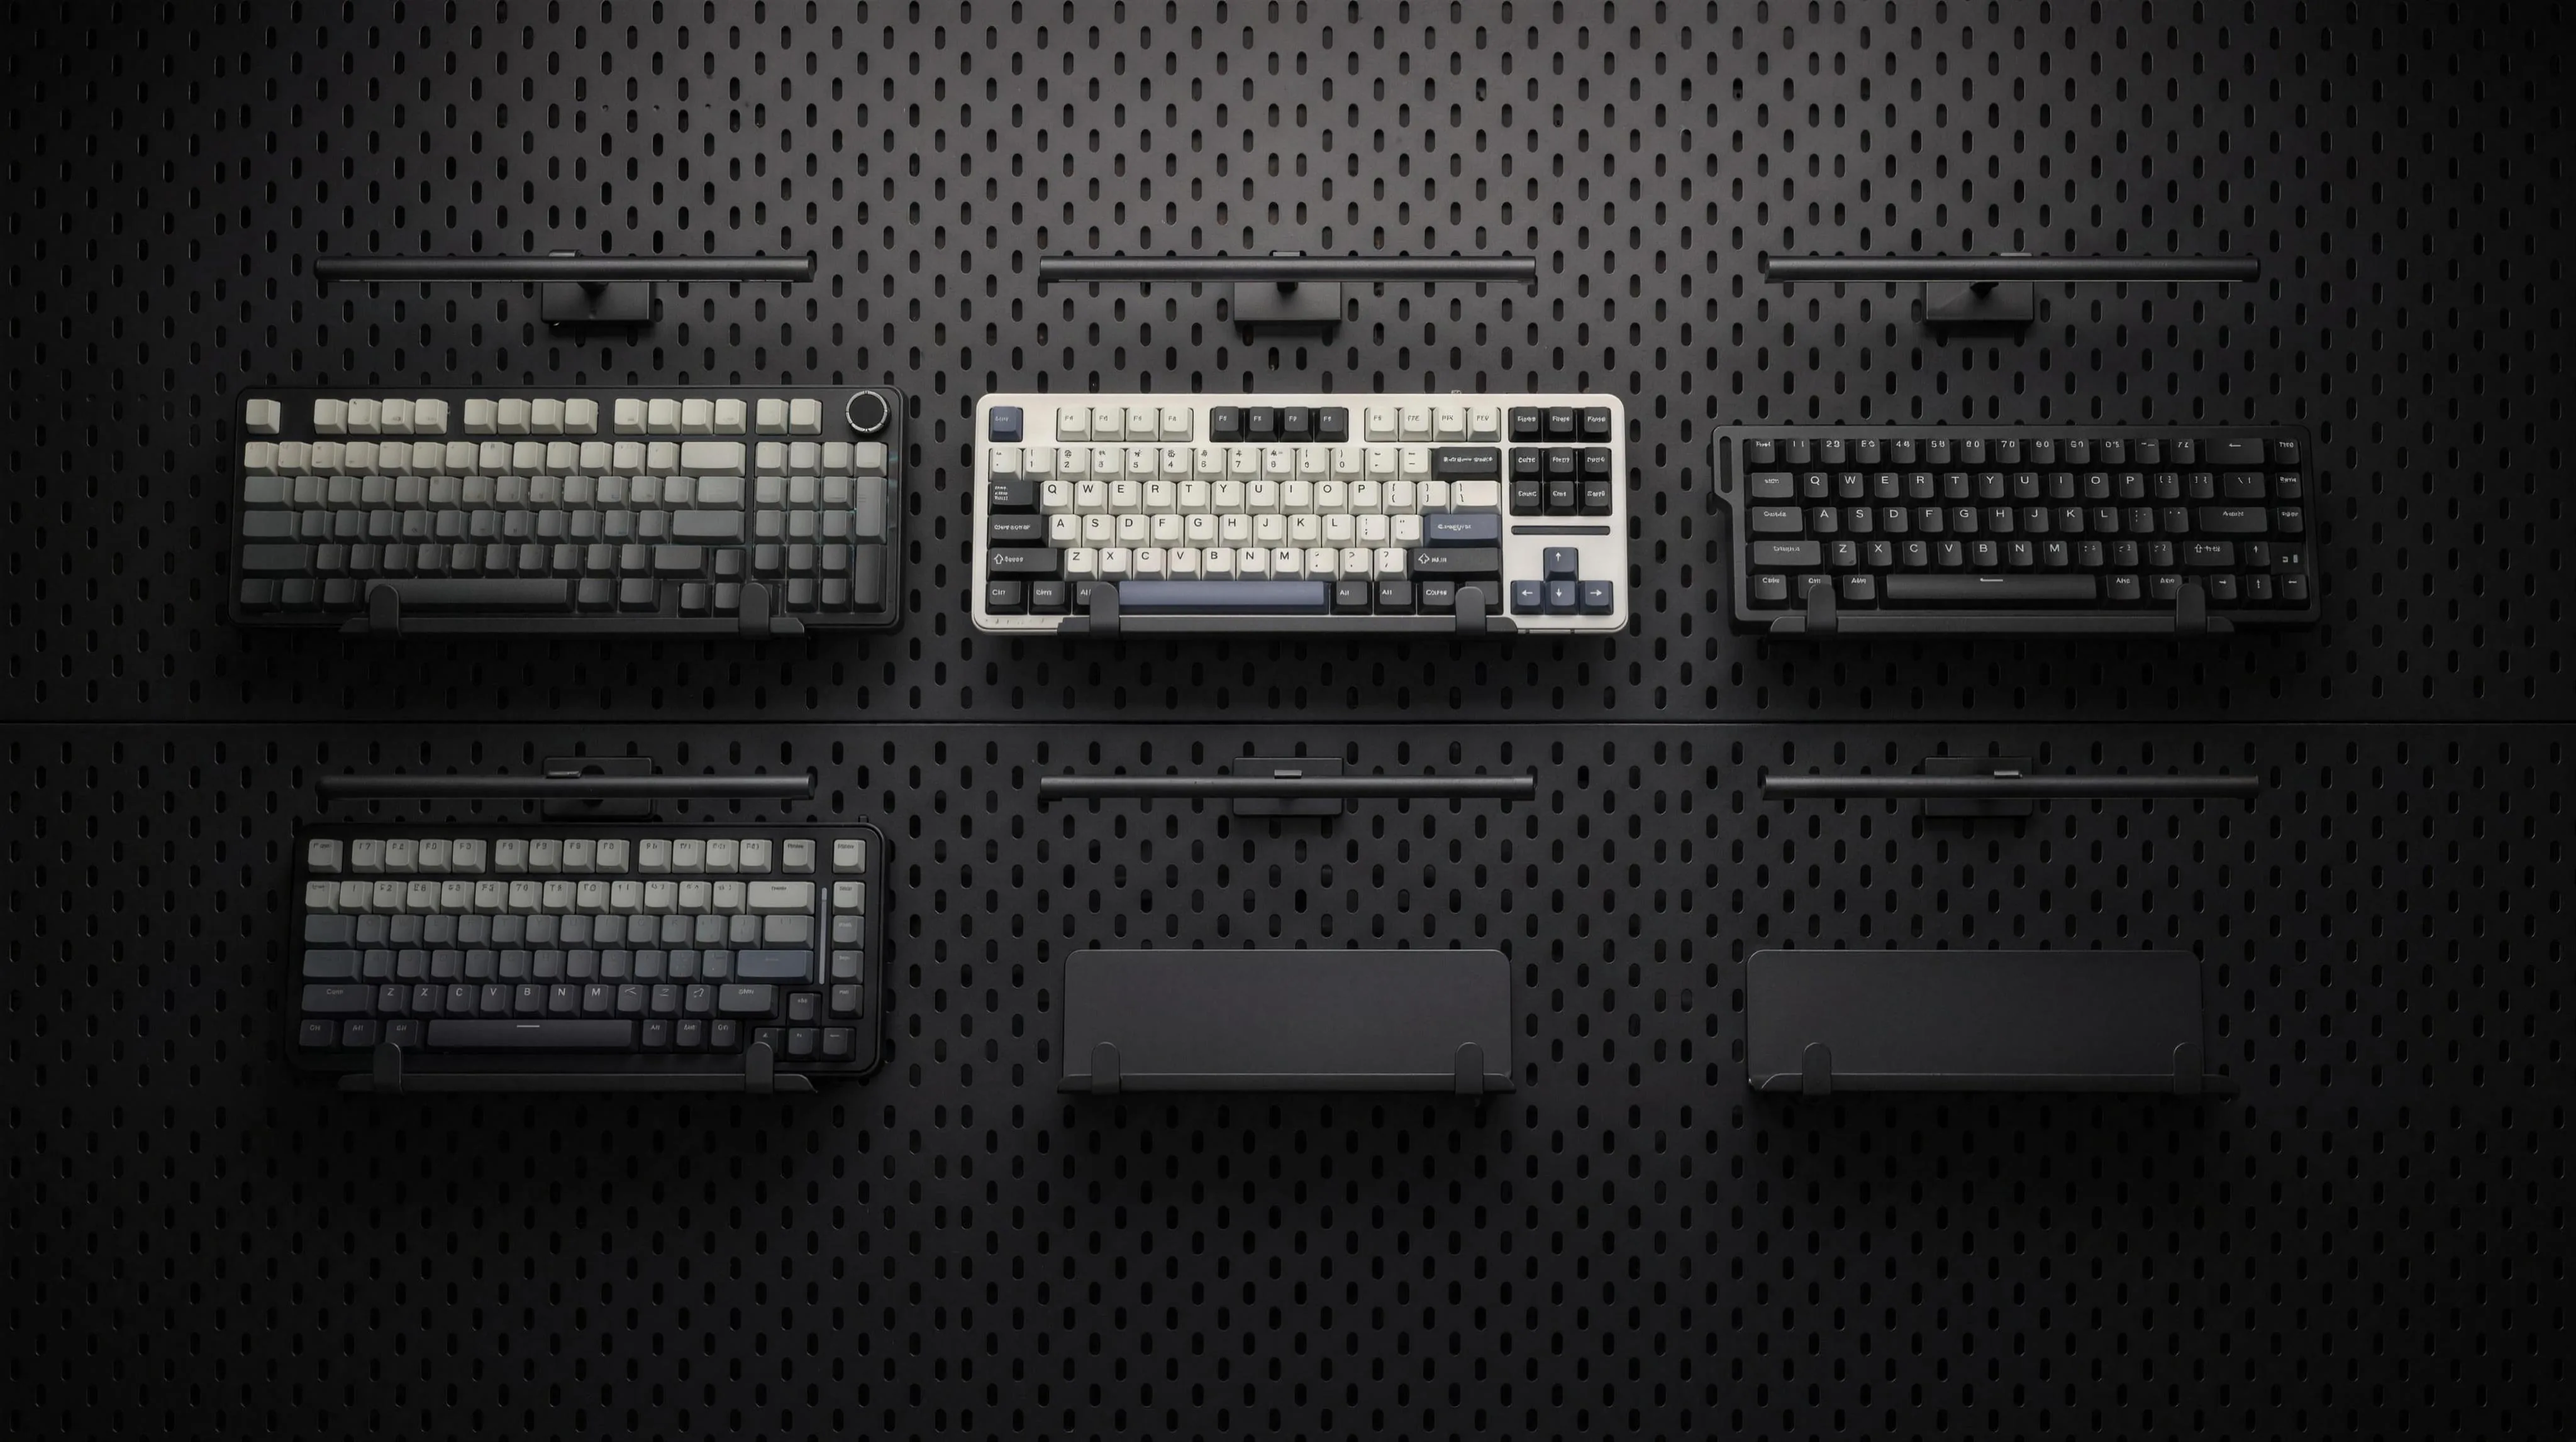
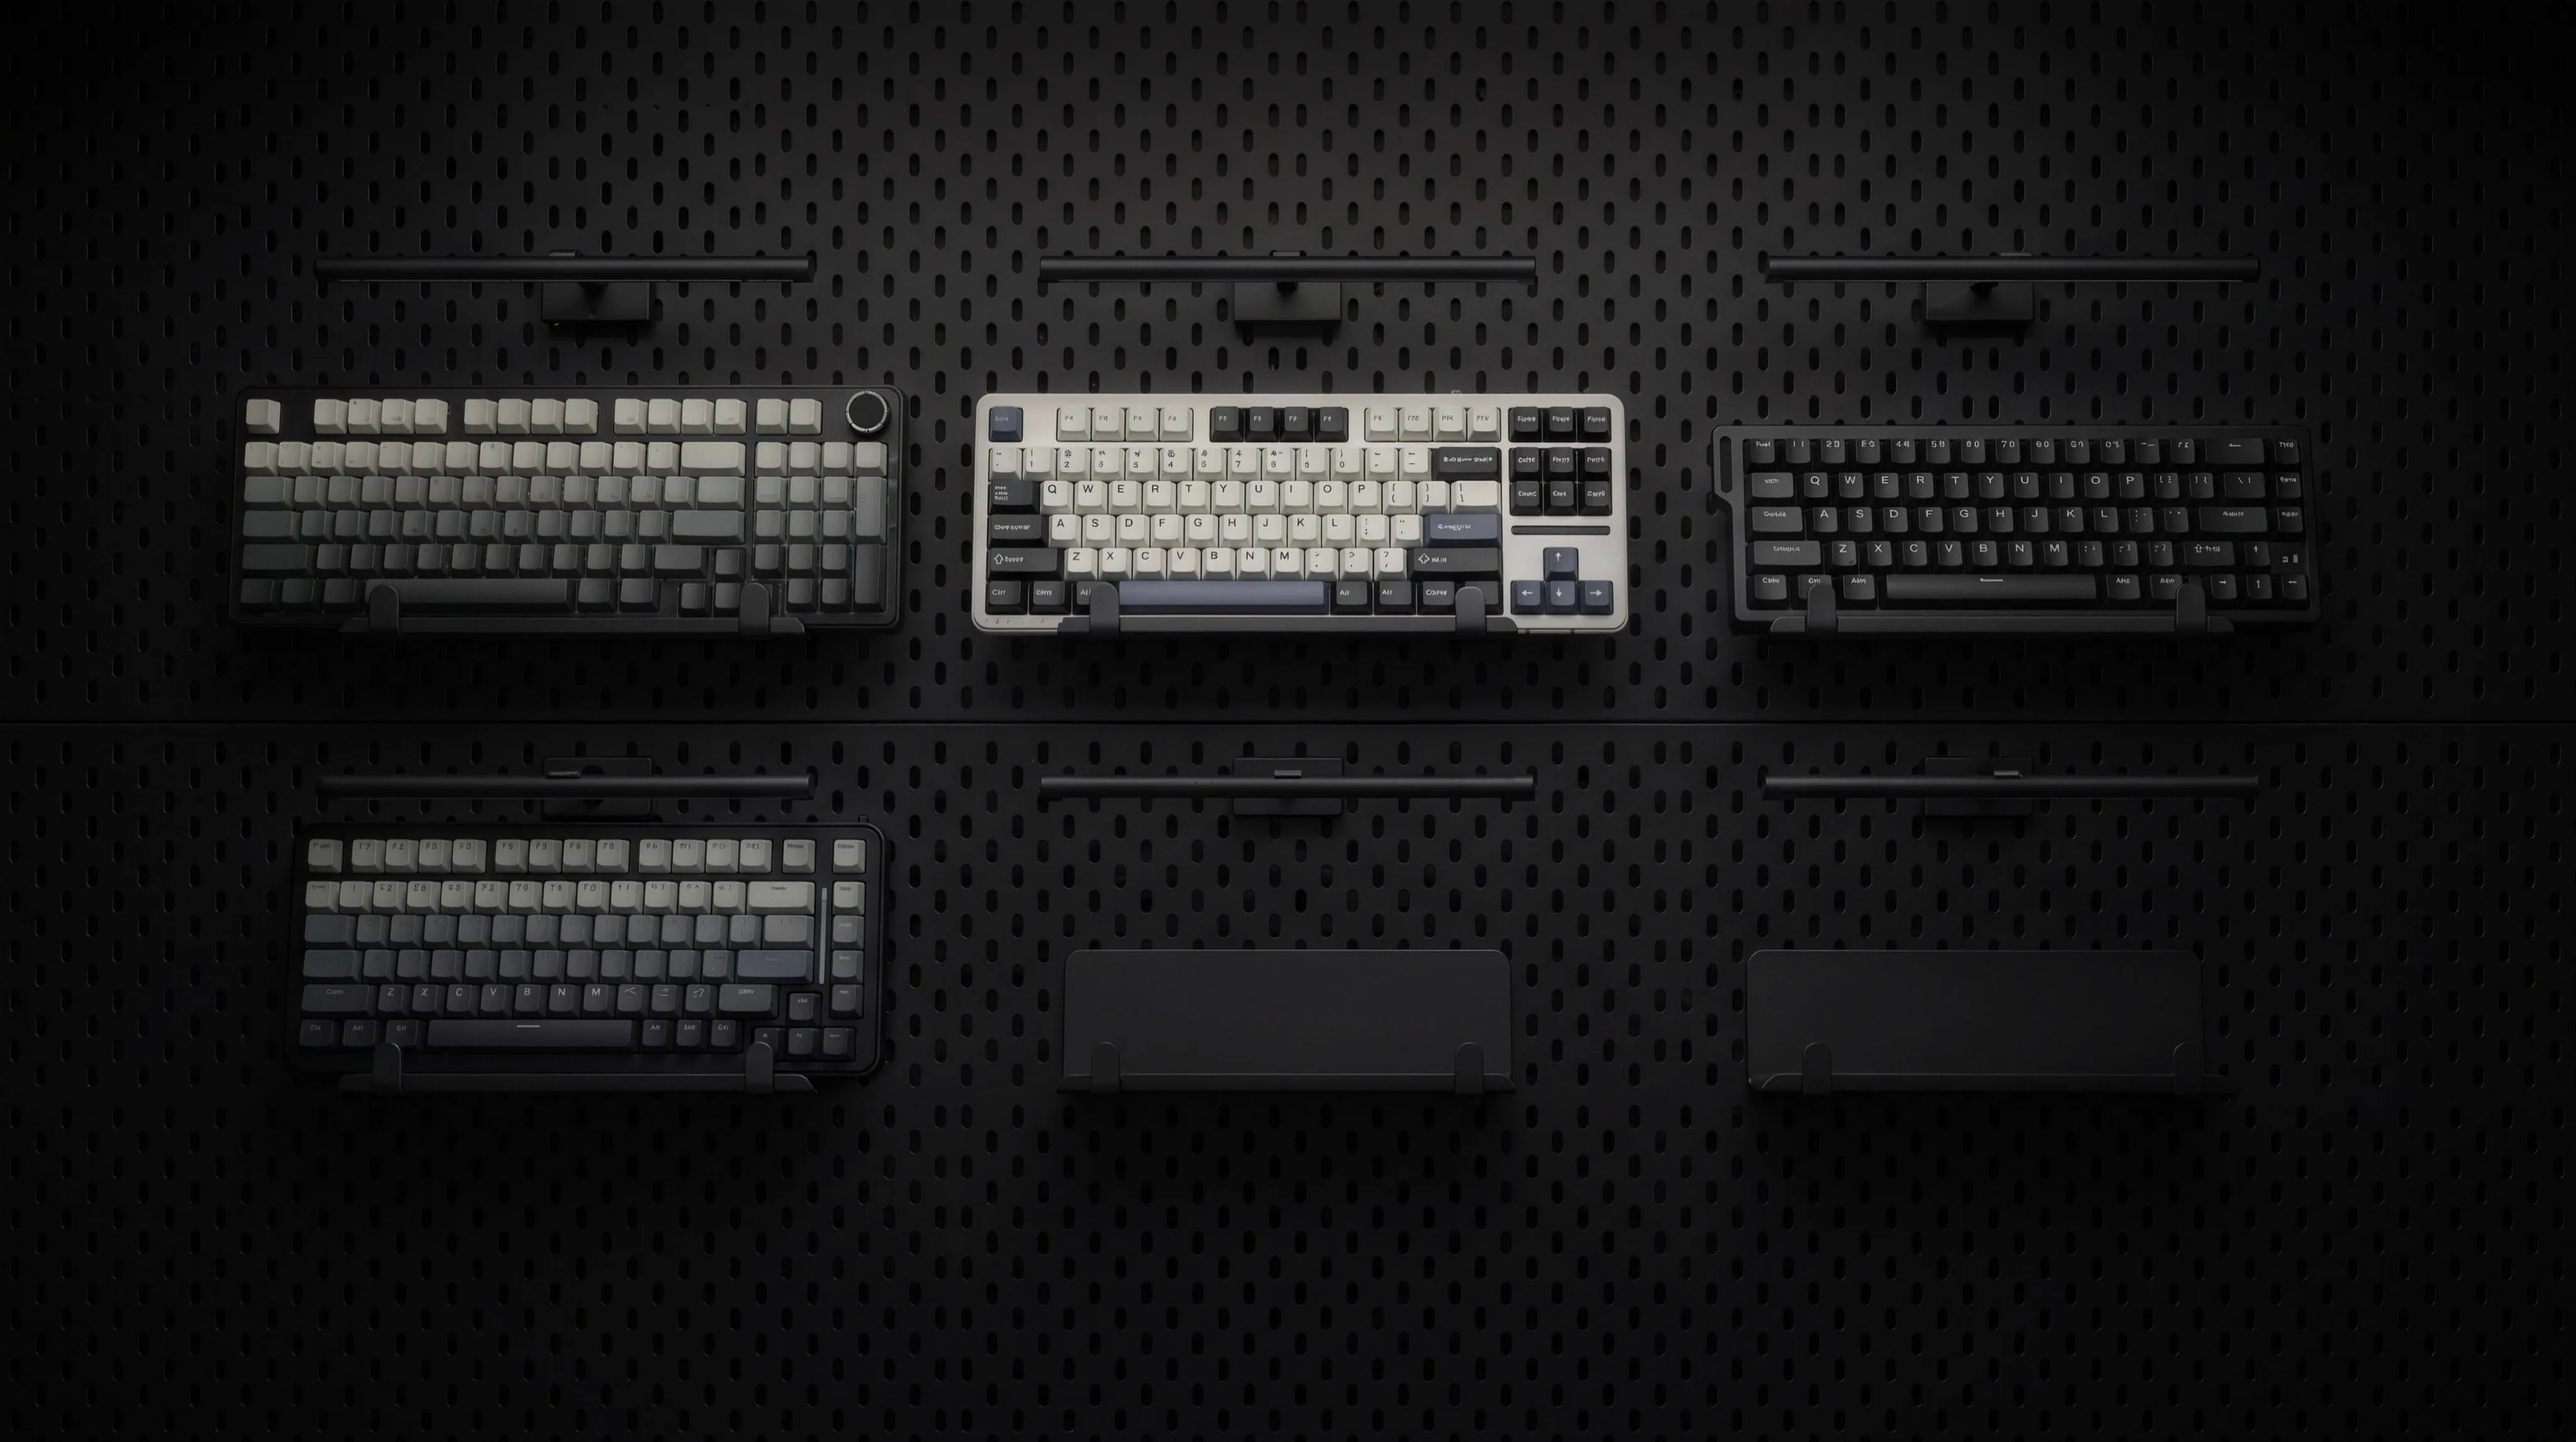
Vitrina: cuarto más oscuro, estados de luz bien marcados y neón más grande
- Muro reprocesado más oscuro (la luz de arriba bajó a la mitad); los teclados
  conservan su luz. Se quita la capa de sombra CSS.
- Tres estados claros: agotado sin luz y en penumbra; con stock, luz blanca tenue;
  al pasar el mouse, luz fuerte azul que tiñe las teclas, o naranja si está agotado.
  Los colores se registran con @property para que cambien con fundido.
- Símbolo de neón más grande.

diff --git a/vitrina/vitrina.css b/vitrina/vitrina.css
@@ -65,18 +65,10 @@
 .vt-wall { width: 100%; height: 100%; object-fit: cover; user-select: none; -webkit-user-drag: none; }
 .vt-spots { position: absolute; inset: 0; }
 
-/* ---------- the wall's baked top light, toned down (it read as one big lamp above) ---------- */
-.vt-shade {
-  position: absolute; inset: 0; pointer-events: none;
-  background:
-    radial-gradient(ellipse 48% 34% at 50% 0%, rgba(0,0,0,.5), rgba(0,0,0,.22) 60%, transparent 100%),
-    linear-gradient(to bottom, rgba(0,0,0,.28), rgba(0,0,0,.12) 16%, transparent 26%);
-}
-
 /* ---------- neon sign: the Flick symbol as tubes, top of the wall ---------- */
 .vt-neon {
-  position: absolute; left: 50%; top: 2.6%;
-  width: 7.4cqw; transform: translateX(-50%);
+  position: absolute; left: 50%; top: .9%;
+  width: 9.2cqw; transform: translateX(-50%);
   pointer-events: none;
   --tube: #46E3DF; --core: #EAFFFE; --glow: rgba(44,180,178,.95);
 }
@@ -108,17 +100,42 @@
   41%, 100% { opacity: 1; }
 }
 
-/* each spot: lamp light + optional pool / dim + click area + tag */
+/* each spot: lamp + light pool on the keyboard + dim (sold out) + click area + tag.
+   Three states that must read clearly apart:
+     sold out ......... no light, keyboard in the dark
+     in stock ......... soft warm-white light
+     hover ............ strong brand light: teal if in stock, orange if sold out
+   Colors are registered so the gradients fade between states instead of jumping. */
+@property --lamp-c { syntax: '<color>'; inherits: true; initial-value: transparent; }
+@property --cone-c { syntax: '<color>'; inherits: true; initial-value: transparent; }
+@property --pool-c { syntax: '<color>'; inherits: true; initial-value: transparent; }
+@property --tint-c { syntax: '<color>'; inherits: true; initial-value: transparent; }
 .vt-spot {
-  --lamp-c: rgba(255,233,204,.95);
-  --cone-c: rgba(255,229,192,.15);
-  --pool-c: rgba(255,236,214,.10);
-  --lamp-o: 1;
+  --lamp-c: rgba(255,236,214,.8);
+  --cone-c: rgba(255,232,200,.08);
+  --pool-c: rgba(255,238,220,.06);
+  --tint-c: rgba(255,255,255,0);
+  --lamp-o: 1; --pool-o: 1; --dim-o: 0;
+  --glow: .7cqw;
+  transition: --lamp-c .35s ease, --cone-c .35s ease, --pool-c .35s ease, --tint-c .35s ease;
 }
-.vt-spot.is-hot { --lamp-c: rgba(44,180,178,1); --cone-c: rgba(44,180,178,.22); --pool-c: rgba(44,180,178,.14); }
-.vt-spot[data-state="off"] { --lamp-o: 0; }
-.vt-spot[data-state="off"].is-hot { --lamp-o: .55; }
-.vt-spot[data-state="empty"] { --lamp-o: 0; }
+.vt-spot.is-hot {
+  --lamp-c: rgba(70,227,223,1);
+  --cone-c: rgba(44,180,178,.55);
+  --pool-c: rgba(44,180,178,.38);
+  --tint-c: rgba(110,230,225,.6);   /* colors the keycaps themselves, not just the air */
+  --glow: 1.8cqw;
+}
+.vt-spot[data-state="off"] { --lamp-o: 0; --pool-o: 0; --dim-o: 1; }
+.vt-spot[data-state="off"].is-hot {
+  --lamp-c: rgba(255,150,80,1);
+  --cone-c: rgba(252,133,57,.5);
+  --pool-c: rgba(252,133,57,.32);
+  --tint-c: rgba(255,175,120,.6);
+  --glow: 1.8cqw;
+  --lamp-o: 1; --pool-o: 1; --dim-o: .25;
+}
+.vt-spot[data-state="empty"] { --lamp-o: 0; --pool-o: 0; }
 
 .vt-lamp {
   position: absolute;
@@ -132,31 +149,37 @@
   content: ''; position: absolute; left: 1.5%; right: 1.5%; top: .12cqw;
   height: .22cqw; border-radius: 99px;
   background: var(--lamp-c);
-  box-shadow: 0 0 .9cqw .2cqw var(--lamp-c);
-  transition: background-color .35s ease, box-shadow .35s ease;
+  box-shadow: 0 0 var(--glow) .2cqw var(--lamp-c);
+  transition: box-shadow .35s ease;
 }
 /* the cone of light falling onto the keyboard: soft on every edge, no hard box */
 .vt-lamp::after {
   content: ''; position: absolute; left: -10%; right: -10%; top: .3cqw;
   height: var(--cone-h, 10cqw);
-  background: radial-gradient(ellipse 50% 100% at 50% 0, var(--cone-c), transparent 78%);
+  background: radial-gradient(ellipse 50% 100% at 50% 0, var(--cone-c), transparent 80%);
   mix-blend-mode: screen;
-  transition: background .35s ease;
 }
 
-.vt-pool, .vt-dim {
+.vt-pool, .vt-dim, .vt-tint {
   position: absolute;
-  left: calc(var(--x) - 2%); top: calc(var(--y) - 3%);
-  width: calc(var(--w) + 4%); height: calc(var(--h) + 6%);
+  left: calc(var(--x) - 3%); top: calc(var(--y) - 4%);
+  width: calc(var(--w) + 6%); height: calc(var(--h) + 8%);
   pointer-events: none;
 }
 .vt-pool {
-  background: radial-gradient(ellipse 60% 70% at 50% 25%, var(--pool-c), transparent 72%);
+  background: radial-gradient(ellipse 58% 66% at 50% 30%, var(--pool-c), transparent 74%);
   mix-blend-mode: screen;
-  transition: background .35s ease;
+  opacity: var(--pool-o);
+  transition: opacity .35s ease;
+}
+.vt-tint {   /* multiply: white keycaps under a teal lamp turn teal */
+  background: radial-gradient(ellipse 62% 70% at 50% 35%, var(--tint-c), transparent 78%);
+  mix-blend-mode: multiply;
 }
 .vt-dim {
-  background: radial-gradient(ellipse 58% 62% at 50% 50%, rgba(0,0,0,.5), rgba(0,0,0,.38) 55%, transparent 78%);
+  background: radial-gradient(ellipse 56% 60% at 50% 50%, rgba(0,0,0,.72), rgba(0,0,0,.6) 55%, transparent 80%);
+  opacity: var(--dim-o);
+  transition: opacity .35s ease;
 }
 
 .vt-slot {

diff --git a/vitrina/vitrina.js b/vitrina/vitrina.js
@@ -123,7 +123,7 @@ function renderWall() {
       : `<b>${esc(p.nombre)}</b>${shortPrice(p) ? `<span class="vt-tag-price">${shortPrice(p)}</span>` : ''}`;
     const label = `${p.nombre}${state === 'off' ? ', agotado' : ''}. Ver de cerca`;
     return `<div class="vt-spot" data-state="${state}" data-i="${i}" style="${vars}">
-        ${state === 'off' ? '<div class="vt-dim"></div>' : '<div class="vt-pool"></div>'}
+        ${state === 'off' ? '<div class="vt-dim"></div>' : ''}<div class="vt-tint"></div><div class="vt-pool"></div>
         <div class="vt-lamp"></div>
         <button class="vt-slot" type="button" data-i="${i}" aria-label="${esc(label)}"></button>
         <span class="vt-tag" aria-hidden="true">${tag}</span>

diff --git a/vitrina/index.html b/vitrina/index.html
@@ -43,7 +43,6 @@
       <div class="vt-stage is-booting" id="vtStage">
         <div class="vt-world" id="vtWorld">
           <img class="vt-wall" id="vtWall" alt="Muro de pegboard negro con bandejas y lámparas; en cuatro bandejas hay teclados en exhibición" width="4096" height="2294" decoding="async" fetchpriority="high">
-          <div class="vt-shade"></div>
           <div class="vt-neon" aria-hidden="true">
             <div class="vt-neon-spill"></div>
             <svg class="vt-neon-svg" viewBox="170 190 660 640" focusable="false">
